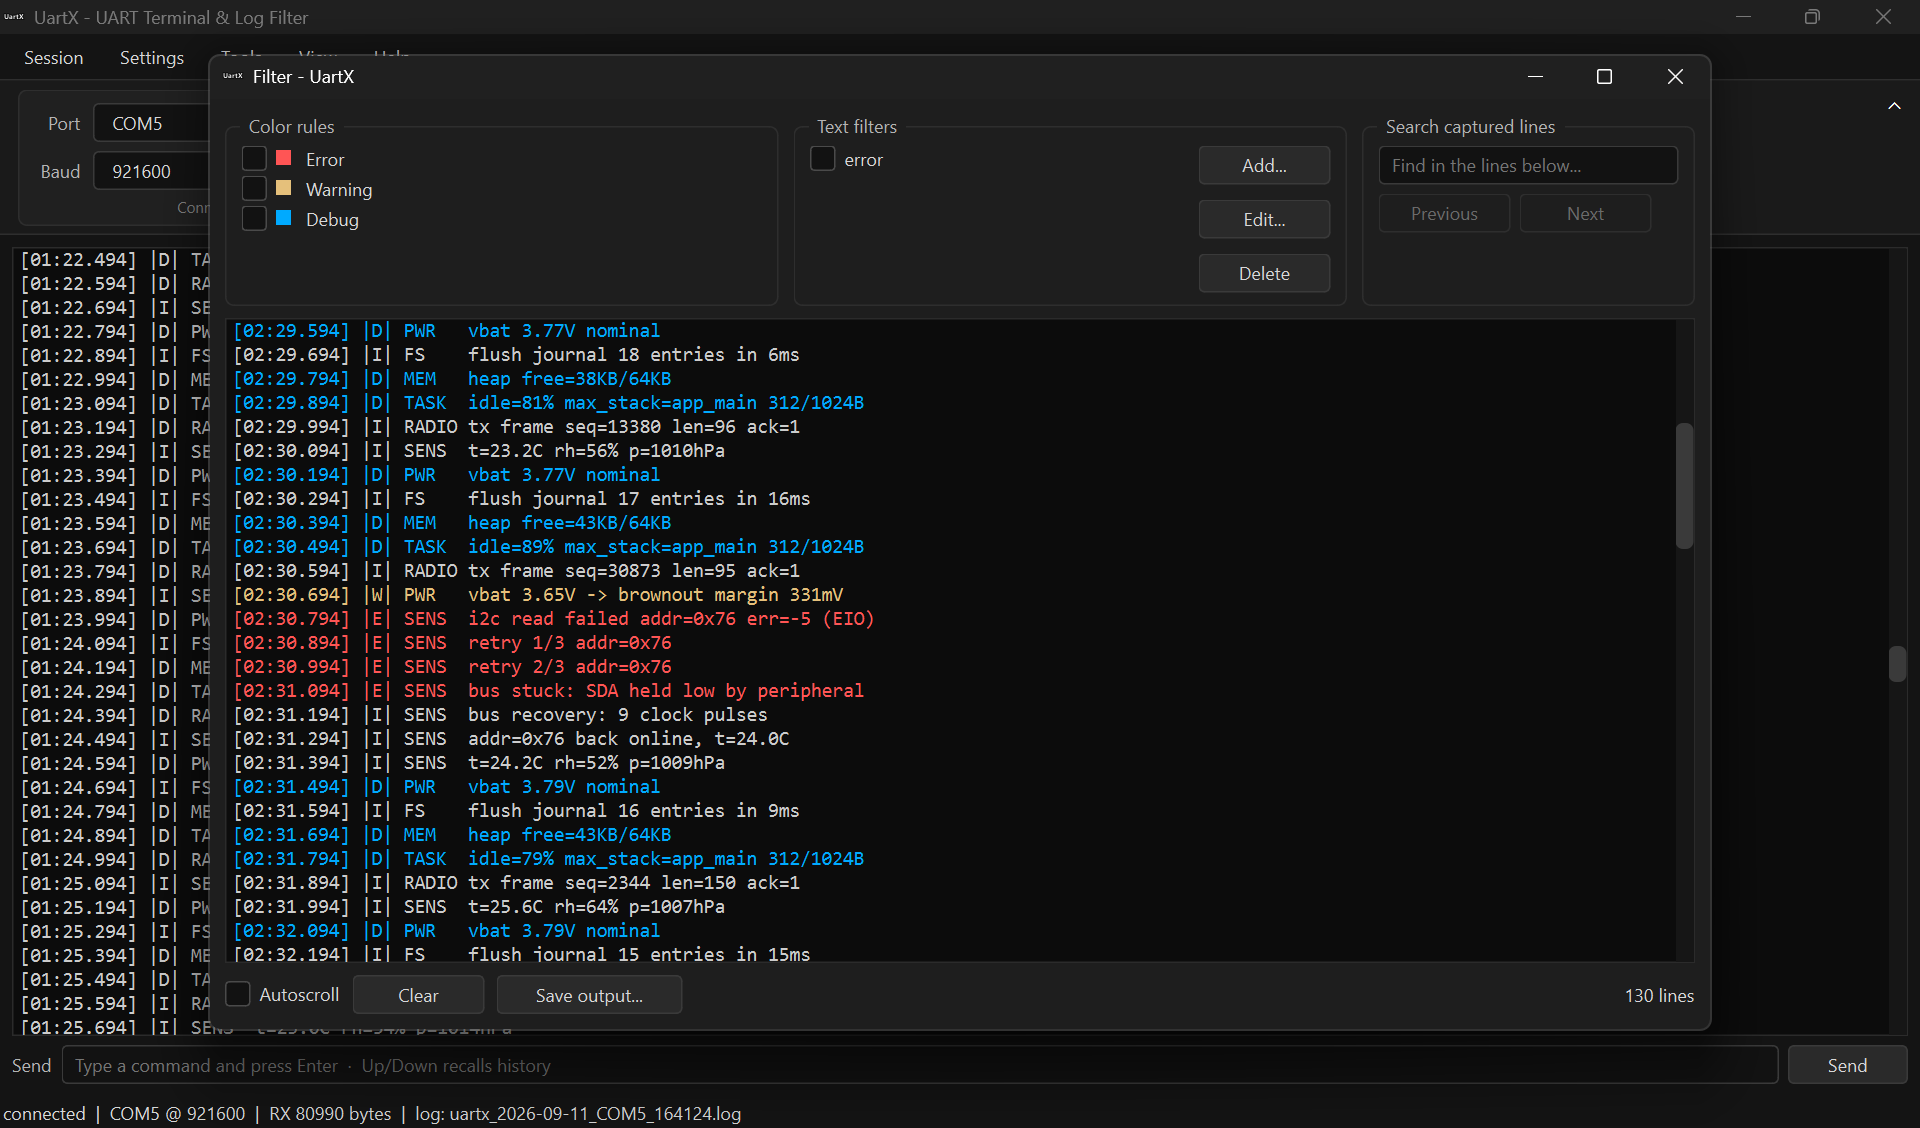
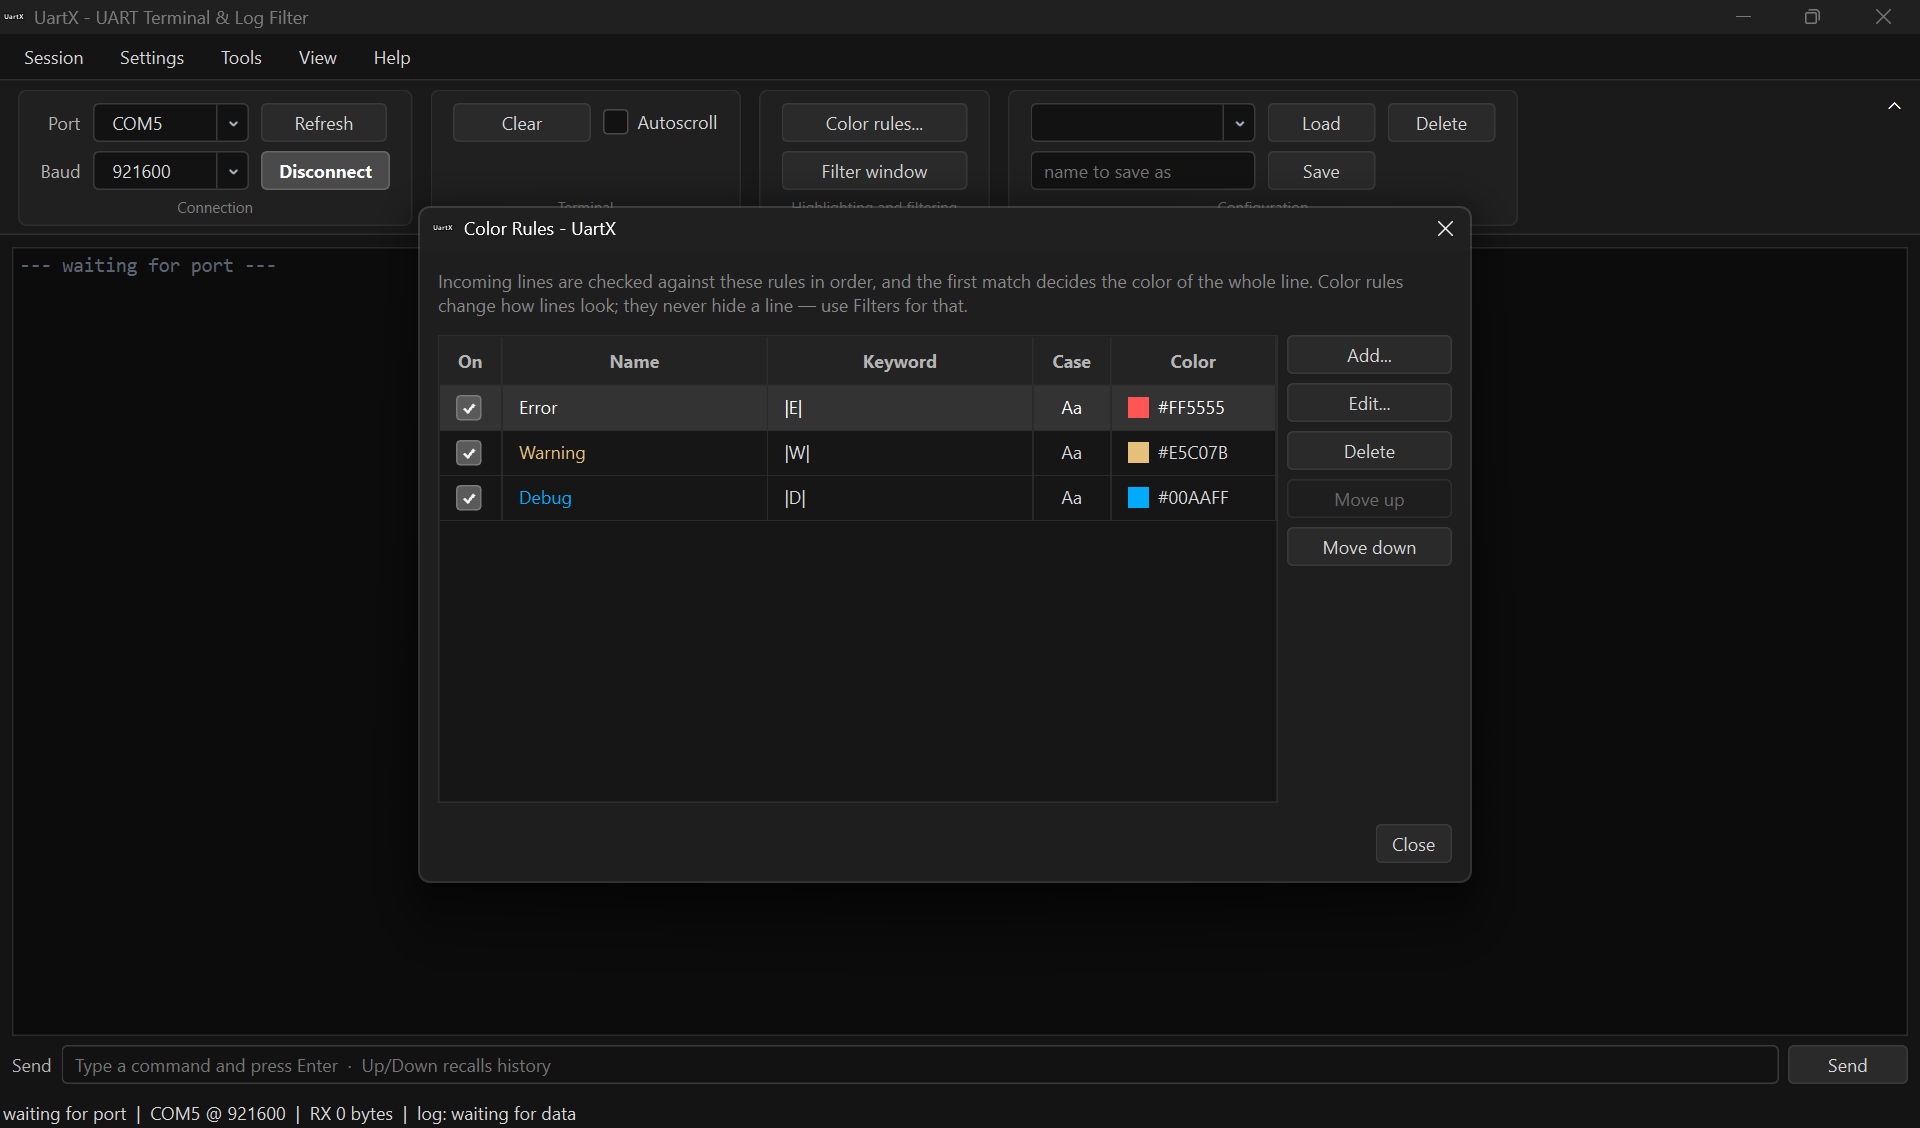
README: left-align the wordmark and size it down

diff --git a/README.md b/README.md
@@ -1,22 +1,16 @@
-<p align="center">
-  <!-- The wordmark is a single-ink mask, so it ships in both inks and follows
-       the reader's theme -- the same thing the About box does at run time. -->
-  <picture>
-    <source media="(prefers-color-scheme: dark)" srcset="docs/Images/wordmark-dark.png">
-    <img src="docs/Images/wordmark-light.png" alt="UartX" width="240">
-  </picture>
-</p>
+<!-- The wordmark is a single-ink mask, so it ships in both inks and follows the
+     reader's theme -- the same thing the About box does at run time. -->
+<picture>
+  <source media="(prefers-color-scheme: dark)" srcset="docs/Images/wordmark-dark.png">
+  <img src="docs/Images/wordmark-light.png" alt="UartX" width="170">
+</picture>
 
-<p align="center">
-  <strong>Turn thousands of lines of firmware output into the information you actually need.</strong>
-</p>
+**Turn thousands of lines of firmware output into the information you actually need.**
 
-<p align="center">
-  <a href="https://github.com/Shamanthpoojary/UartX/releases/latest"><img alt="Release" src="https://img.shields.io/github/v/release/Shamanthpoojary/UartX?sort=semver"></a>
-  <a href="https://github.com/Shamanthpoojary/UartX/actions/workflows/ci.yml"><img alt="CI" src="https://github.com/Shamanthpoojary/UartX/actions/workflows/ci.yml/badge.svg"></a>
-  <a href="LICENSE"><img alt="License: MIT" src="https://img.shields.io/badge/license-MIT-blue.svg"></a>
-  <img alt="Platform: Windows and Linux" src="https://img.shields.io/badge/platform-Windows%20%7C%20Linux-lightgrey">
-</p>
+[![Release](https://img.shields.io/github/v/release/Shamanthpoojary/UartX?sort=semver)](https://github.com/Shamanthpoojary/UartX/releases/latest)
+[![CI](https://github.com/Shamanthpoojary/UartX/actions/workflows/ci.yml/badge.svg)](https://github.com/Shamanthpoojary/UartX/actions/workflows/ci.yml)
+[![License: MIT](https://img.shields.io/badge/license-MIT-blue.svg)](LICENSE)
+![Platform: Windows and Linux](https://img.shields.io/badge/platform-Windows%20%7C%20Linux-lightgrey)
 
 UartX is a UART-based debugging and analysis tool built specifically for
 embedded and firmware developers.
